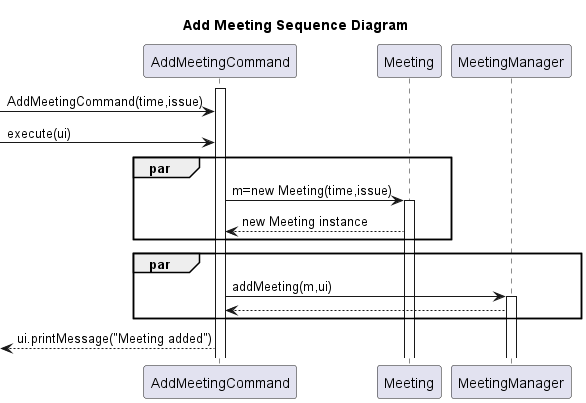
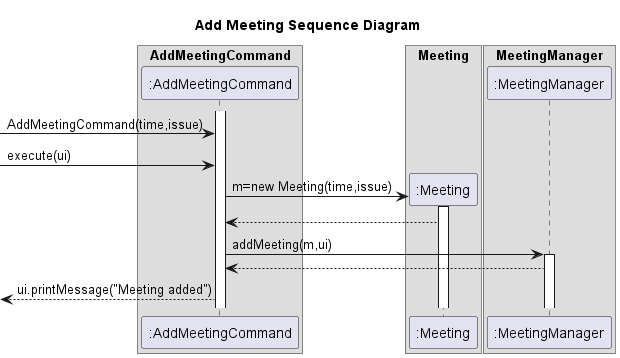
Add manager diagram, add header comments, fix bugs

diff --git a/src/main/java/utils/Parser.java b/src/main/java/utils/Parser.java
@@ -96,6 +96,13 @@ public class Parser {
     }
 
     //Solution below adapted from https://github.com/Stella1585/ip/blob/master/src/main/java/duke/Parser.java
+    /**
+     * Parsing the input into properties of Meeting class and checking for error.
+     *
+     * @param description Cleaned UserInput without the Command keyword.
+     * @return AddMeetingCommand object based on the info in the description,
+     *     if input is valid, otherwise IncorrectCommand object.
+     */
     private Command prepareAddMeetingCommand(String description) {
         String[] words = (description.trim()).split("t/");
         String[] testName = (description.trim()).split("n/");
@@ -107,26 +114,36 @@ public class Parser {
                 throw new DinerDirectorException(Messages.ERROR_MEETING_EXCESS_ADD_PARAM);
             }
         } catch (DinerDirectorException e) {
-            System.out.println(e);
+            System.out.println(e.getMessage());
             return new IncorrectCommand();
         }
         String issue = (words[0].substring(2)).trim();
         String time = words[1].trim();
         return new AddMeetingCommand(time, issue);
     }
-
+    /**
+     * Checking for whether user input has excess command.
+     *
+     * @param userInput Cleaned UserInput without the Command keyword.
+     * @return ViewMeetingCommand object if input is valid, otherwise IncorrectCommand object.
+     */
     private Command prepareViewMeetingCommand(String userInput) {
         try {
             if (!userInput.isEmpty()) {
                 throw new DinerDirectorException(Messages.ERROR_MEETING_EXCESS_VIEW_PARAM);
             }
         } catch (DinerDirectorException e) {
-            System.out.println(e);
+            System.out.println(e.getMessage());
             return new IncorrectCommand();
         }
         return new ViewMeetingCommand();
     }
-
+    /**
+     * Checking whether user input has an number and the number format.
+     *
+     * @param description Cleaned UserInput without the Command keyword.
+     * @return DeleteMeetingCommand object if input is valid, otherwise IncorrectCommand object.
+     */
     private Command prepareDeleteMeetingCommand(String description) {
         int index;
         try {
@@ -135,7 +152,7 @@ public class Parser {
                 throw new DinerDirectorException(Messages.ERROR_MEETING_MISSING_INDEX);
             }
         } catch (DinerDirectorException e) {
-            System.out.println(e);
+            System.out.println(e.getMessage());
             return new IncorrectCommand();
         } catch (NumberFormatException e) {
             System.out.println(Messages.ERROR_MEETING_MISSING_INDEX);
@@ -144,14 +161,19 @@ public class Parser {
         assert index >= 0 : "Index of meeting should be 0 or greater.";
         return new DeleteMeetingCommand(index);
     }
-
+    /**
+     * Checking whether the user input is empty.
+     *
+     * @param description Cleaned UserInput without the Command keyword.
+     * @return FindMeetingCommand object if input is valid, otherwise IncorrectCommand object.
+     */
     private Command prepareFindMeetingCommand(String description) {
         try {
             if ((description.trim()).isEmpty()) {
                 throw new DinerDirectorException(Messages.ERROR_MEETING_MISSING_PARAM);
             }
         } catch (DinerDirectorException e) {
-            System.out.println(e);
+            System.out.println(e.getMessage());
             return new IncorrectCommand();
         }
         return new FindMeetingCommand(description.trim());

diff --git a/src/main/java/manager/MeetingManager.java b/src/main/java/manager/MeetingManager.java
@@ -10,11 +10,18 @@ import java.util.ArrayList;
 
 public class MeetingManager {
     private static ArrayList<Meeting> meetings = new ArrayList<>();
-
+    /**
+     * Creates MeetingList with input list.
+     * @param meetings is the list of meetings.
+     */
     public MeetingManager(ArrayList<Meeting> meetings) {
         MeetingManager.meetings = meetings;
     }
-
+    /**
+     * Adds a meeting item to the meeting list.
+     * @param meeting is the meeting item to be added.
+     * @param ui       manages user output.
+     */
     public static void addMeeting(Meeting meeting, TextUi ui) {
         meetings.add(meeting);
         ui.printMessage(meeting.getIssue() + " at " + meeting.getTime());
@@ -25,8 +32,11 @@ public class MeetingManager {
             ui.printMessage(Messages.ERROR_STORAGE_INVALID_WRITE_LINE);
         }
     }
-
-    public static String printMeetings() {
+    /**
+     * Print the meeting list.
+     * @return a String of all the meetings
+     */
+    public static String viewMeetings() {
         String meetingList = "";
         int index=1;
         for (Meeting meeting : meetings) {
@@ -35,7 +45,11 @@ public class MeetingManager {
         }
         return meetingList;
     }
-
+    /**
+     * Deletes a meeting from the meeting list.
+     * @param index is the index of meeting to be deleted.
+     * @param ui    manages user output.
+     */
     public static void deleteMeeting(int index, TextUi ui) {
         if(index<0){
             ui.printMessage(Messages.ERROR_MEETING_INVALID_INDEX);
@@ -57,6 +71,11 @@ public class MeetingManager {
         }
 
     }
+    /**
+     * Prints all the meetings that contain the keyword.
+     * @param keyword is the keyword to be searched.
+     * @param ui manages user output.
+     */
     public static void findMeeting(String keyword, TextUi ui){
         ArrayList<Meeting> meetingFound=new ArrayList<>();
         for(Meeting m:meetings){
@@ -68,8 +87,10 @@ public class MeetingManager {
             ui.printMessage(Messages.MESSAGE_MEETING_NOT_FOUND);
         } else{
             ui.printMessage(Messages.MESSAGE_MEETING_FOUND);
+            int index=1;
             for(Meeting n:meetingFound){
-                ui.printMessage(n.getIssue());
+                ui.printMessage(index+". "+n.getIssue()+" at "+n.getTime());
+                index++;
             }
         }
 

diff --git a/src/main/java/commands/meeting/ViewMeetingCommand.java b/src/main/java/commands/meeting/ViewMeetingCommand.java
@@ -16,6 +16,6 @@ public class ViewMeetingCommand extends Command {
     @Override
     public void execute(TextUi ui) {
         ui.printMessage(Messages.MESSAGE_MEETING_VIEW_LIST);
-        ui.printMessage(MeetingManager.printMeetings());
+        ui.printMessage(MeetingManager.viewMeetings());
     }
 }

diff --git a/docs/DeveloperGuide.md b/docs/DeveloperGuide.md
@@ -43,14 +43,20 @@ An `isExit` method will return a boolean value that decides whether the program 
 
 
 ### Manager Component
-The manager component consists of four different managers, 
-in which the list of entity is initialized and the methods implementing the entity are written inside.
-- DeadlineManager: This class contains an ArrayList of deadlines and methods implementing the deadlines like addDeadline, printDeadline and deleteDeadline.
-- DishManager: This class contains an ArrayList of dishes and methods like addDish, deleteDish, viewDish and 
-stringOfDish which returns the dish information.
-- MeetingManager: This class contains an ArrayList of meetings and methods like addMeeting, printMeetings and deleteMeeting.
-- StaffManager: This class contains an ArrayList of staffs and methods like addStaff, deleteStaffByName, findStaffByName and getStaffString which print all the staffs' information.
+![](uml/images/Manager.png)
 
+The manager component consists of four different managers, in which the list 
+of entity is initialized and the methods implementing the entity are written inside.
+XYZ represents Meeting, Deadline, Staff and Dish.
+The Manager class diagram above omits methods that are unique to the individual manager classes
+for simplification.
+- DeadlineManager: This class contains an ArrayList of deadlines and methods implementing the deadlines shown in the class diagram.
+- DishManager: This class contains an ArrayList of dishes and methods like isInsideDishes for judging whether a dish is inside the dish list,
+stringOfDish which returns the dish information,isInsideDishesWithIndex which returns the dish information
+with index and getDishesSize which returns the size of the dishes, apart from methods in the diagram.
+- MeetingManager: This class contains an ArrayList of meetings and methods implementing the meetings shown in the class diagram.
+- StaffManager: This class contains an ArrayList of staffs and methods like getStaffs with returns the staff list,
+apart from the methods in the diagram.
 ### Ui Component
 
 ![](uml/images/UiClassDiagram.png)
@@ -102,8 +108,8 @@ The 'Meeting' class in the entity package shows the attributes that a meeting ob
 An ArrayList of meetings is initialized in the MeetingManager. Three methods that implement the meetings are also inside.
 - addMeeting: Add a meeting to the meeting list.
   ![](uml/images/AddMeetingCommandSequenceDiagram-Add_Meeting_Sequence_Diagram.png)
-- deleteMeeting: Delete a meeting in the meeting list by its index.
-- printMeetings: Print all the meetings in the meeting list.
+- deleteMeeting: Delete a meeting in the meeting list by its index. The sequence diagram follows the same pattern as above.
+- printMeetings: Print all the meetings in the meeting list.The sequence diagram follows the same pattern as above.
 
 When the user input a meeting command, the Parser will determine which command it is and return a command object.
 One of the meeting commands will be called from `AddMeetingCommand`, `DeleteMeetingCommand` and `ViewMeetingCommand`.

diff --git a/docs/UserGuide.md b/docs/UserGuide.md
@@ -44,9 +44,15 @@ A simple command to display the help page in the program.
 Format: `help`
 
 ### Meetings
-
+Meeting is a feature for the restaurant manager to manage meetings with 
+boss or workers. MeetingManager supports add_meeting, view_meetings,
+delete_meeting and find_meeting. 
 #### Add Meetings:
-Add a meeting to the meeting list.
+Add a meeting to the meeting list. The name of the meeting is written after
+'n/', followed by the time of the meeting written after 't/'. Note that add_meeting
+command will not handle extra parameters other than 'n/' and 't/', which will be considered
+part of meeting name or meeting time. Besides, please do not contain 't/' inside your meeting
+name because the MeetingManager will consider what after 't/' as time.
 
 Format: `add_meeting n/<name> t/<time>`
 
